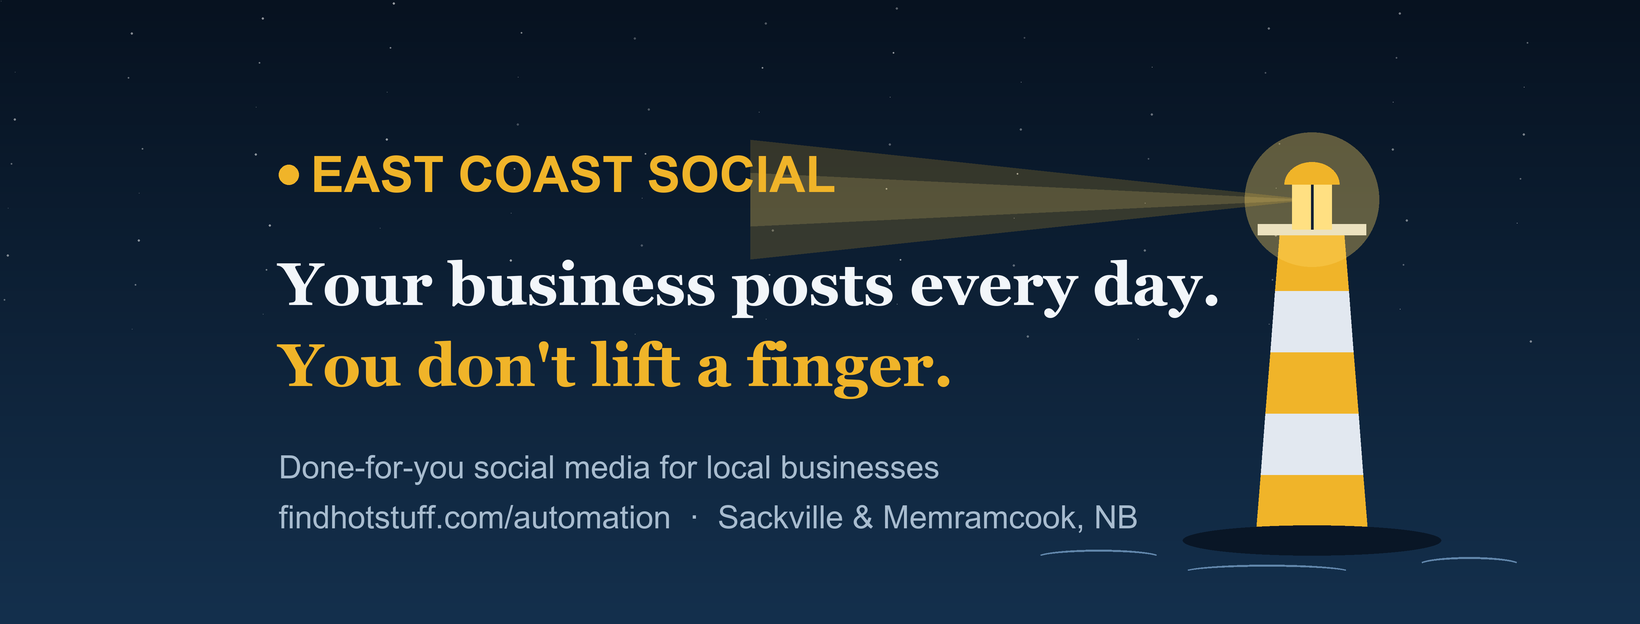
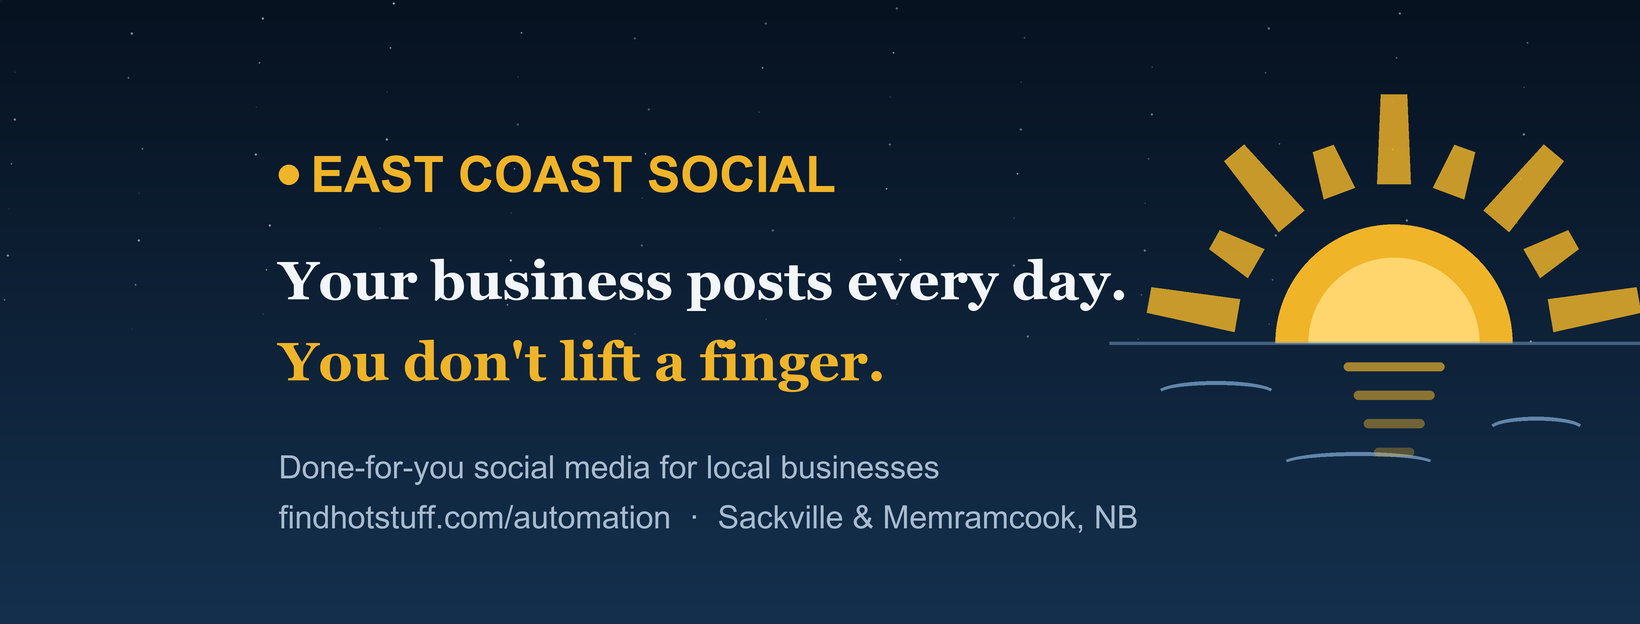
ECS brand: swap lighthouse for sunrise-over-water motif

Changed region(s): [[0.1555, 0.1522, 1.0, 0.9135], [0.1555, 0.5481, 0.5909, 0.6394], [0.9018, 0.6699, 0.964, 0.7003]]

diff --git a/marketing/east-coast-social/make_fb_branding.py b/marketing/east-coast-social/make_fb_branding.py
@@ -56,74 +56,53 @@ def night_sky(size_w, size_h):
     return img
 
 
-def draw_lighthouse(img, cx, base_y, height, beam_left=True, beam_right=True):
-    """Gold-striped lighthouse with a glowing lantern and light beams,
-    drawn onto `img` with the lantern at (cx, base_y - height)."""
+def draw_sunrise(img, cx, horizon_y, radius, ray_count=9, reflection=True):
+    """Half-risen gold sun on the horizon line at (cx, horizon_y), with a fan
+    of rays above and a shimmering reflection in the water below."""
     d = ImageDraw.Draw(img, "RGBA")
-    h = height
-    top_y = base_y - h
-    w_base = h * 0.30
-    w_top = h * 0.17
+    r = radius
 
-    # beams first so the tower overlaps them
-    lantern_y = top_y + h * 0.10
-    beam_len = h * 1.5
-    spread = h * 0.16
-    for direction, on in ((-1, beam_left), (1, beam_right)):
-        if not on:
-            continue
-        x_far = cx + direction * beam_len
-        d.polygon([(cx, lantern_y), (x_far, lantern_y - spread), (x_far, lantern_y + spread)],
-                  fill=(240, 180, 41, 48))
-        d.polygon([(cx, lantern_y),
-                   (x_far, lantern_y - spread * 0.45), (x_far, lantern_y + spread * 0.45)],
-                  fill=(255, 220, 120, 42))
+    # rays: tapered spokes fanning over the top half, gaps left for air
+    for i in range(ray_count):
+        ang = math.pi * (i + 0.5) / ray_count  # 0..pi, sunrise fan
+        r0, r1 = r * 1.35, r * (2.1 if i % 2 == 0 else 1.75)
+        wa = math.pi / ray_count * 0.30       # angular half-width of a ray
+        pts = []
+        for a in (ang - wa, ang + wa):
+            pts.append((cx + math.cos(a) * r0, horizon_y - math.sin(a) * r0))
+        for a in (ang + wa * 0.5, ang - wa * 0.5):
+            pts.append((cx + math.cos(a) * r1, horizon_y - math.sin(a) * r1))
+        d.polygon(pts, fill=(240, 180, 41, 210))
 
-    # tapered tower with gold/navy stripes
-    stripes = 5
-    for i in range(stripes):
-        t0, t1 = i / stripes, (i + 1) / stripes
-        yy0 = top_y + h * 0.18 + (h * 0.82) * t0
-        yy1 = top_y + h * 0.18 + (h * 0.82) * t1
-        ww0 = w_top + (w_base - w_top) * t0
-        ww1 = w_top + (w_base - w_top) * t1
-        color = GOLD if i % 2 == 0 else (226, 232, 240)
-        d.polygon([(cx - ww0 / 2, yy0), (cx + ww0 / 2, yy0),
-                   (cx + ww1 / 2, yy1), (cx - ww1 / 2, yy1)], fill=color)
+    # the half-sun, two-tone for depth
+    d.pieslice((cx - r, horizon_y - r, cx + r, horizon_y + r), 180, 360, fill=GOLD)
+    d.pieslice((cx - r * 0.72, horizon_y - r * 0.72, cx + r * 0.72, horizon_y + r * 0.72),
+               180, 360, fill=(255, 214, 110))
 
-    # gallery deck + railing
-    deck_y = top_y + h * 0.18
-    d.rectangle((cx - w_top * 0.85, deck_y - h * 0.015, cx + w_top * 0.85, deck_y + h * 0.015),
-                fill=(226, 232, 240))
-    # lantern room with glow
-    lw = w_top * 0.62
-    glow = Image.new("RGBA", img.size, (0, 0, 0, 0))
-    ImageDraw.Draw(glow).ellipse((cx - lw * 1.7, lantern_y - lw * 1.7,
-                                  cx + lw * 1.7, lantern_y + lw * 1.7),
-                                 fill=(255, 214, 100, 90))
-    img.paste(glow, (0, 0), glow)
-    d.rectangle((cx - lw / 2, lantern_y - h * 0.045, cx + lw / 2, deck_y), fill=(255, 224, 130))
-    d.line([(cx, lantern_y - h * 0.04), (cx, deck_y)], fill=NAVY, width=max(2, int(h * 0.008)))
-    # dome cap
-    d.pieslice((cx - lw * 0.7, lantern_y - h * 0.10, cx + lw * 0.7, lantern_y + h * 0.02),
-               180, 360, fill=GOLD)
+    # horizon line
+    d.line([(cx - r * 2.4, horizon_y), (cx + r * 2.4, horizon_y)],
+           fill=(120, 160, 200, 130), width=max(2, int(r * 0.03)))
 
-    # rocks / waves at the base
-    d.ellipse((cx - w_base * 1.15, base_y - h * 0.03, cx + w_base * 1.15, base_y + h * 0.05),
-              fill=(9, 22, 38))
-    for k, (dx, wl) in enumerate(((-1.9, 1.1), (1.4, 0.9), (-0.4, 1.5))):
-        y = base_y + h * (0.055 + 0.02 * k)
-        x0 = cx + w_base * dx - w_base * wl / 2
-        d.arc((x0, y - h * 0.02, x0 + w_base * wl, y + h * 0.02), 200, 340,
-              fill=(120, 160, 200, 200), width=max(2, int(h * 0.006)))
+    # water: wave arcs + a broken gold reflection path under the sun
+    for k, (dx, wl) in enumerate(((-1.5, 1.0), (1.2, 0.8), (-0.3, 1.3))):
+        y = horizon_y + r * (0.42 + 0.30 * k)
+        x0 = cx + r * dx - r * wl / 2
+        d.arc((x0, y - r * 0.10, x0 + r * wl, y + r * 0.10), 200, 340,
+              fill=(120, 160, 200, 200), width=max(2, int(r * 0.035)))
+    if reflection:
+        for k in range(4):
+            y = horizon_y + r * (0.16 + 0.24 * k)
+            w = r * (0.85 - 0.17 * k)
+            d.rounded_rectangle((cx - w / 2, y, cx + w / 2, y + r * 0.075),
+                                radius=r * 0.04, fill=(240, 180, 41, 170 - 30 * k))
 
 
 def make_logo():
     s = 3
     size = 1024 * s
     img = night_sky(size, size)
-    # circle-safe: lighthouse centred, content inside inner ~72%
-    draw_lighthouse(img, size / 2, size * 0.80, size * 0.52)
+    # circle-safe: sun on a horizon just below centre, rays inside inner ~72%
+    draw_sunrise(img, size / 2, size * 0.58, size * 0.175)
     img.resize((1024, 1024), Image.LANCZOS).save(HERE / "fb-logo.png")
 
 
@@ -132,10 +111,9 @@ def make_cover():
     W, H = 1640 * s, 624 * s
     img = night_sky(W, H)
 
-    # lighthouse at the right edge of the mobile-safe band, beaming left;
-    # text is drawn afterwards and must stay clear of the tower (< 0.70 W)
-    lx = W * 0.80
-    draw_lighthouse(img, lx, H * 0.86, H * 0.60, beam_left=True, beam_right=False)
+    # sunrise at the right edge of the mobile-safe band; text is drawn
+    # afterwards and must stay clear of the sun + rays (< 0.67 W)
+    draw_sunrise(img, W * 0.85, H * 0.55, H * 0.19)
 
     d = ImageDraw.Draw(img)
     # wordmark + copy block, inside the mobile-safe band (center ~68% of width)
@@ -147,7 +125,7 @@ def make_cover():
 
     line1 = "Your business posts every day."
     line2 = "You don't lift a finger."
-    serif_big = font(60 * s, bold=True, serif=True)
+    serif_big = font(54 * s, bold=True, serif=True)
     d.text((x0, H * 0.40), line1, font=serif_big, fill=INK_LIGHT)
     d.text((x0, H * 0.53), line2, font=serif_big, fill=GOLD)
 
